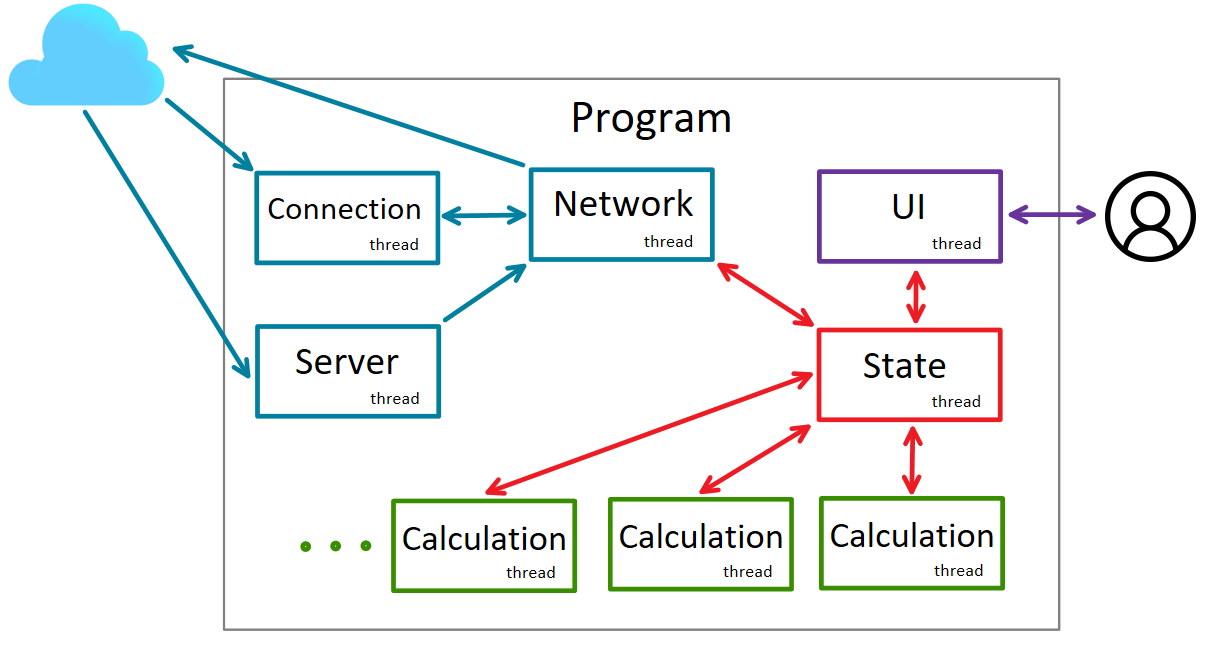
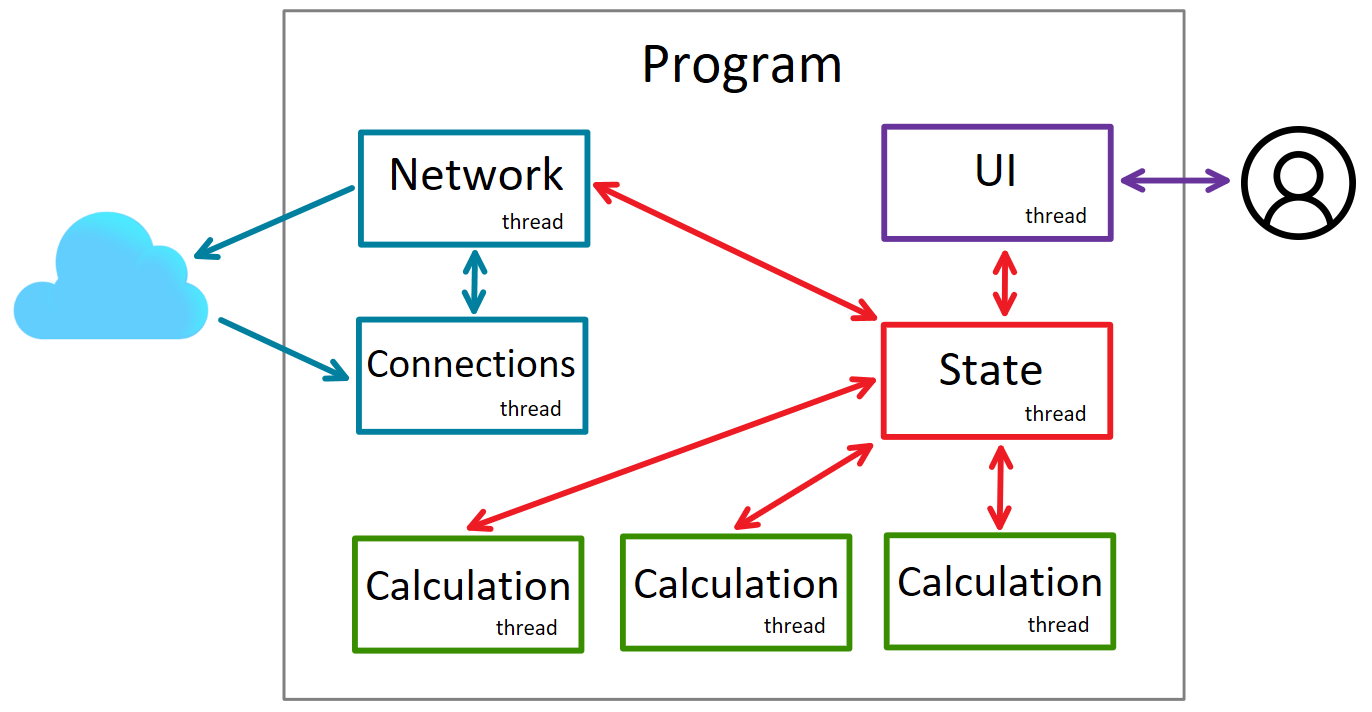
Remove Server thread

Changed region(s): [[0.0, 0.0, 1.0, 0.9922], [0.2149, 0.0, 0.8598, 0.031], [0.522, 0.5891, 0.5527, 0.6202]]

diff --git a/docs/network_module.md b/docs/network_module.md
@@ -1,4 +1,57 @@
-# Wątek Sieci
+# Moduł sieci
+
+## Wątek "Server"
+
+Nieaktywnie oczekuje na nadchodzące połączenia. 
+
+Tworzy ```ServerSocket``` nasłuchujący na porcie podanym w pliku konfiguracyjnym lub przy starcie programu. Gdy połączenie nadejdzie, przekazuje otrzymany socket wątkowi ```Network``` za pośrednictwem [TODO]
+
+## Wątek "Connections"
+
+Nieaktywnie oczekuje na nadchodzące połączenia oraz nasłuchuje równocześnie na wszystkich połączeniach. Gdy z któregoś połączenia nadejdzie wiadomość, przekazuje ją wątkowi ```Network``` za pośrednictwem [TODO]. Jeśli zostanie utworzone nowe połączenie, żaden inny wątek nie jest informowany. 
+
+Wątek ```Connections``` tworzy ```Selector selector```, w którym rejestrują się gniazda połączeń i serwera. 
+
+### Otrzymanie połączenia
+
+```ServerSocketChannel``` nasłuchuje na porcie podanym w pliku konfiguracyjnym lub przy starcie programu. Rejestruje się w obiekcie ```selector``` na zbiorze zdarzeń ```SelectionKey.OP_ACCEPT```.
+
+Gdy nowe połączenie oczekuje na danym porcie, jest akceptowane. Zostaje utworzony nowy obiekt ```Connection(SocketChannel socket, Selector selector)```, do którego przekazywany zostaje zwrócony socket oraz ```selector```. Obiekt zostaje dodany do listy ```List<Connection> incomingConnections```. 
+
+### Tworzenie połączenia
+
+Nowe połączenia tworzy wątek ```Network``` po otrzymaniu adresu ip danego węzła (wiadomość [powitalna](./messages.md#wiadomosc-powitalna), lub [odpowiedź z listą nodów](./messages.md#odpowiedz-z-lista-nodow-i-nowym-id)). Najpierw towrzony jest ```Connection(InetSocketAddress ipTcpAddress, Selector selector)``` z odpowiednim adresem ip oraz obiektem ```selector```. Następnie zostaje dodany na listę ```List<Connection> outcomingConnections```
+
+### Nadejście wiadomości
+
+Każdemu połączeniu odpowiada osobny obiekt typu ```Connection```. W jego skład wchodzi ```SocketChannel socket``` oraz ```Selector selector```.
+
+[TODO]
+
+
+
+
+
+
+
+
+
+
+## Wątek "Network"
+
+Jest odpowiedzialny za przetwarzanie ruchu w sieci oraz wysyłanie wiadmości zleconych przez moduł ```State```. 
+
+Aby uniknąć aktywnego oczekiwania, wątek ```Network``` zasypia gdy nie ma wiadomości do przetworzenia, ani wysłania. Ma on jednak trzy różne źródła zadań: wątki ```Connections```, ```Server``` i ```State```. Każdy z nich ma możliwość wybudzenia wątku za pomocą metody ```Thread.interrupt()```.
+
+
+
+
+
+
+
+
+
+
 
 Otrzymuje, przetwarza i wysyła wiadomości w sieci Nodów. Monitoruje ```heart beat``` wszystkich Nodów i zamyka połączenia po przekroczeniu ustalonego czasu bez wiadomości. Wywołuje metody na obiekcie ```Stanu``` i otrzymuje od niego zgłoszenia w ramach subskrypcji. 
 

diff --git a/docs/program_structure.md b/docs/program_structure.md
@@ -6,7 +6,7 @@ Program skłąda się z czterech modułów:
 - [Calculation](./calculation_module.md) \- odpowiada za prowadzenie obliczeń i podział problemu na zadania.\
 - [UI](./ui_module.md) \- udostępnia komunikację użytkownika z programem.
 
-Moduł sieci komunikuje się z resztą węzłów sieci. W całym przepływie informacji wewnątrz programu uczestniczy moduł stanu. Pozostałe moduły nie komunikują się bezpośrednio ze sobą. 
+Moduł sieci komunikuje się z resztą węzłów w sieci. W całym przepływie informacji wewnątrz programu uczestniczy moduł stanu. Pozostałe moduły nie komunikują się bezpośrednio ze sobą. 
 
 <img style="height:300px" src="./img/module_communication.PNG">
 
@@ -16,7 +16,7 @@ Moduł sieci komunikuje się z resztą węzłów sieci. W całym przepływie inf
 
 ## Wątki kontroli
 
-Każdy moduł działa w ramach osobnego wątku. Dodatkowo, do obsługi sieci moduł ```Network``` potrzebuje dwóch dodatkowych wątków. ```Server``` nasłuchuje nadchodzących połączeń i przekazuje je do wątku ```Network```. ```Connection``` odbiera ruch z sieci i doręcza wiadomości wątkowi ```Network```, który je przetwarza i wysyła.
+Każdy moduł działa w ramach osobnego wątku oprócz modułu ```Network```. Potrzebuje on dodatkowego wątku ```Connections```, który akceptuje nowe połączenia i odbiera ruch z sieci. Wątek ```Network``` przetwarza i wysyła wiadomości.
 
 Komunikacja między wątkami ```Network```, ```Calculation``` i ```UI``` przebiega z użyciem wzorca ```Active Object```, który realizuje moduł ```State```.
 Dzięki temu żaden wątek nigdy nie zostaje zablokowany w ramach komunikacji. Implementacja ```Active object``` zakłada stworzenie wątku ```State```. Dzięki użyciu powyższej architektury, dodanie kolejnego wątku ```Calculation``` nie wymaga żadnych zmian w kodzie. Zależności między wątkami będą zatem wyglądać następująco: 

diff --git a/docs/network_structure.md b/docs/network_structure.md
@@ -1,6 +1,6 @@
 # Struktura sieci
 
-Sieć peer to peer się z nodów:
+Sieć peer to peer składa się z nodów:
 - <font color="red">publicznych</font> \- o publicznym adresie ip.
 - <font color="lightgreen">prywatnych</font> \- bez publicznego adresu ip.
 - **<font color="red">publicznego głównego</font>** \- o publicznym adresie ip, z którym ma się łączyć każdy node dołączający do sieci. Jego adres ip jest udostępniony wraz z programem.
